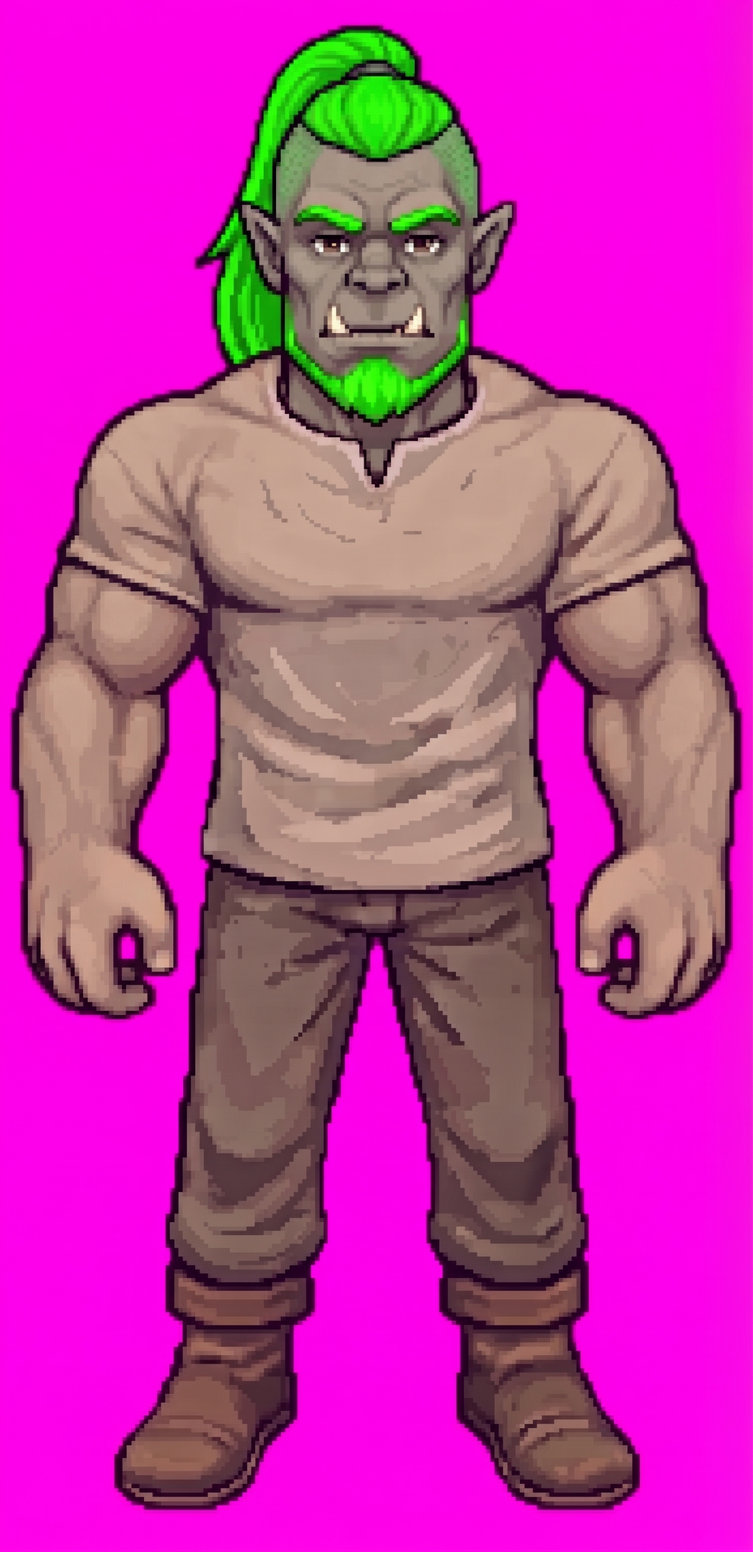
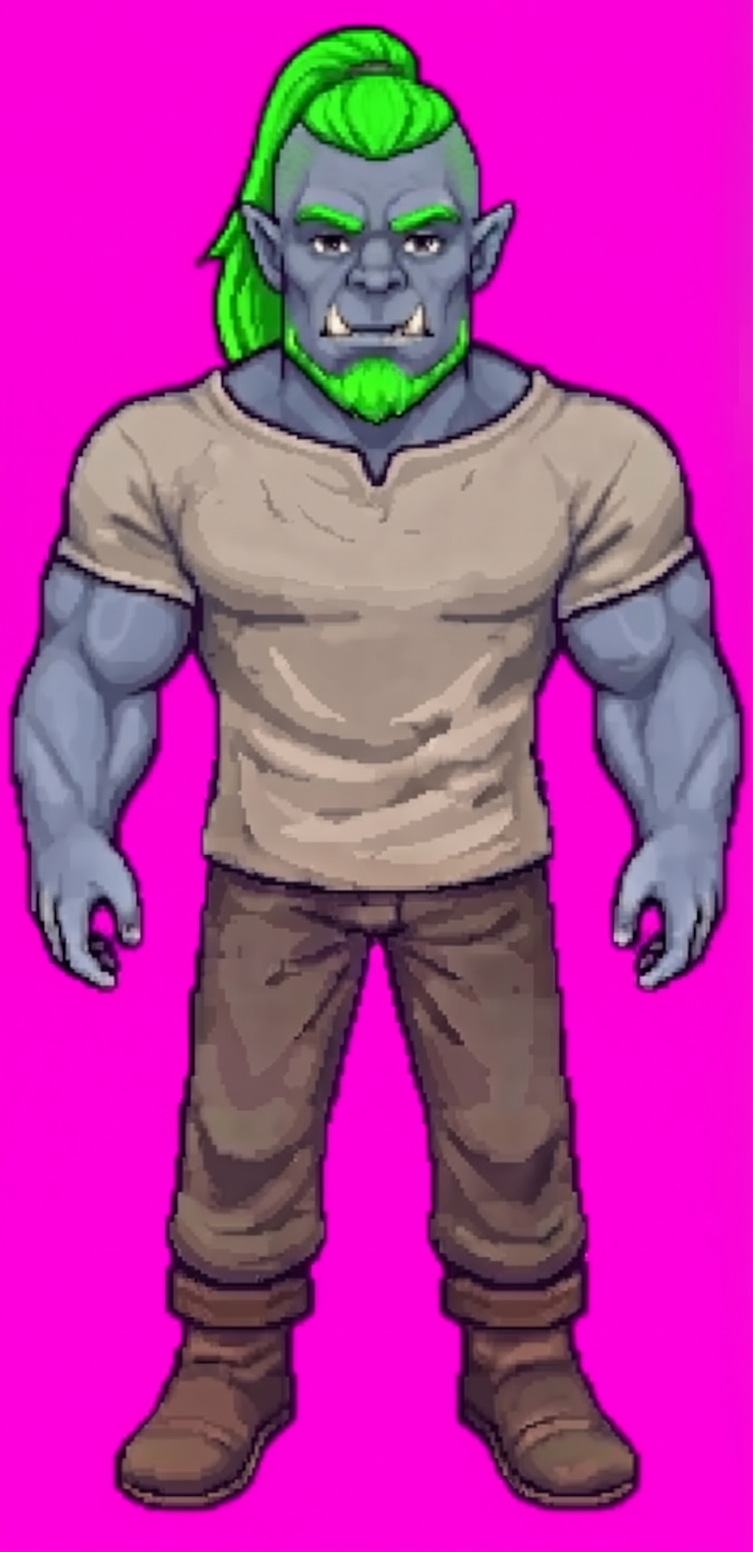
Meio-orc refeito com pele cinza-azulada; pele verde como padrão no jogo
A pele azulada se separa da túnica pela cor (sem caixas, sem faixa no
braço). O couro cabeludo raspado acha a pele fria pela faixa de cor.

diff --git a/js/ruleset.js b/js/ruleset.js
@@ -101,7 +101,7 @@
     draconato: { scale: 1.06, corpo: 'Masculino', pele: 'Escamas vermelhas', cabelo: 'Chifres e cristas', olhos: 'Âmbar', rosto: 'Focinho de dragão' },
     gnomo: { scale: 0.58, corpo: 'Masculino', pele: 'Rosada', penteado: 'Espetado', cabelo: 'Branco', barba: 'Bigode e cavanhaque', olhos: 'Azuis', rosto: 'Nariz grande, orelhas pontudas' },
     meio_elfo: { scale: 1, corpo: 'Masculino', pele: 'Oliva', penteado: 'Ondulado', cabelo: 'Preto', barba: 'Cheia curta', olhos: 'Castanhos', rosto: 'Suave, orelhas meio pontudas' },
-    meio_orc: { scale: 1.04, corpo: 'Masculino', pele: 'Cinza-pedra', penteado: 'Rabo e laterais raspadas', cabelo: 'Preto', barba: 'Curta', olhos: 'Castanhos', rosto: 'Presas inferiores' },
+    meio_orc: { scale: 1.04, corpo: 'Masculino', pele: 'Verde', penteado: 'Rabo e laterais raspadas', cabelo: 'Preto', barba: 'Curta', olhos: 'Castanhos', rosto: 'Presas inferiores' },
     tiferino: { scale: 1, corpo: 'Masculino', pele: 'Vermelho-rubi', cabelo: 'Preto longo, chifres curvos', olhos: 'Dourados sem pupila', rosto: 'Anguloso, cauda' }
   };
 
@@ -133,8 +133,8 @@
       cabelo: [['Branco', '#ebe6dc'], ['Ruivo', '#c8582a'], ['Laranja', '#e08a2a'], ['Castanho', '#6b4630'], ['Loiro', '#d8b25c'], ['Grisalho', '#9b968f'], ['Rosa', '#d87aa8'], ['Azul', '#5a86d0']],
       olhos: [['Azuis', null], ['Verdes', '#3f9a4a'], ['Castanhos', '#6b4428'], ['Violeta', '#8a4fd0'], ['Âmbar', '#d0902a'], ['Cinzentos', '#8a96a2']]
     },
-    meio_orc: {                                 // pele desenhada cinza (sem verde: o verde e do cabelo); o verde vem por codigo
-      pele: [['Cinza-pedra', null], ['Verde-acinzentada', '#7f8c68'], ['Verde-oliva', '#71803f'], ['Verde-escura', '#4c6236'], ['Cinza-azulada', '#7a8494'], ['Bronze', '#93684a']],
+    meio_orc: {                                 // pele desenhada cinza-azulada (sem verde: o verde e do cabelo); o verde vem por codigo
+      pele: [['Verde', '#6f8c4a'], ['Verde-acinzentada', '#7f8c68'], ['Verde-oliva', '#7a8540'], ['Verde-escura', '#4c6236'], ['Cinza-azulada', null], ['Cinza-pedra', '#85817a'], ['Bronze', '#93684a']],
       cabelo: [['Preto', '#2a2422'], ['Castanho-escuro', '#4a3326'], ['Ruivo', '#a8482a'], ['Grisalho', '#9b968f'], ['Branco', '#ebe6dc'], ['Castanho', '#6b4630']],
       olhos: [['Castanhos', null], ['Vermelhos', '#c0302a'], ['Amarelos', '#d8c040'], ['Âmbar', '#d0902a'], ['Pretos', '#201a17'], ['Verdes', '#3f9a4a']]
     },

diff --git a/index.html b/index.html
@@ -203,7 +203,7 @@
   <script src="js/palace.js?v=69"></script>
   <script src="js/critters_draw.js?v=1"></script>
   <script src="js/fauna.js?v=23"></script>
-  <script src="js/ruleset.js?v=16"></script>
+  <script src="js/ruleset.js?v=17"></script>
   <script src="js/character_creation.js?v=12"></script>
   <script src="js/game.js?v=82"></script>
 </body>

diff --git a/tools/arte/importar_novas.py b/tools/arte/importar_novas.py
@@ -503,6 +503,9 @@ def mascara_cores(im, cfg, frame=None):
             # mais do que a pele teria (G/R da pele) dividido pelo verde do cabelo da a cobertura
             hh, ss, vv = hsv_arr(a)
             pele = op & (cobre == 0) & (ss > 0.3) & (vv > 0.6) & (a[..., 0] > a[..., 1]) & (a[..., 1] > a[..., 2])
+            if pele.sum() < 50 and 'pele' in cfg:  # pele fria (meio-orc azulado): acha a pele pela faixa de cor dela
+                cp = cfg['pele']
+                pele = op & (cobre == 0) & inh(hh, cp['h']) & inr(ss, cp['s']) & inr(vv, cp['v']) & (yf > cfg['cabelo']['couro'])
             rho = np.median(a[pele][:, 1] / np.maximum(a[pele][:, 0], 1)) if pele.any() else 0.75
             gref = np.median(a[cobre > 0.8][:, 1]) if (cobre > 0.8).any() else 180
             b = (a[..., 1] - rho * a[..., 0]) / (1 - 0.15 * rho)
